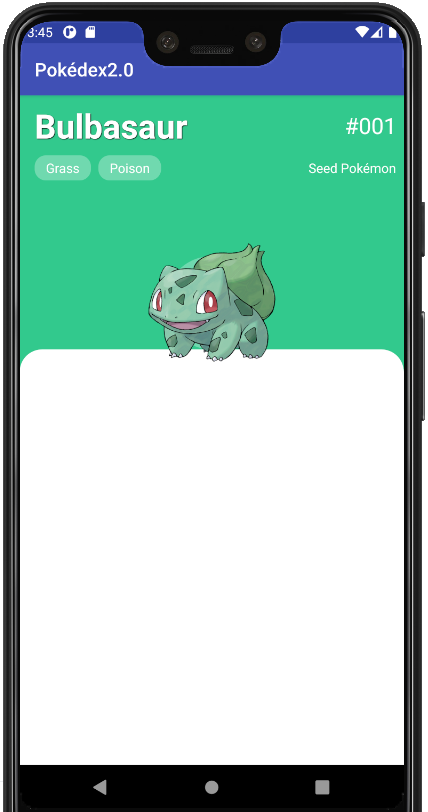
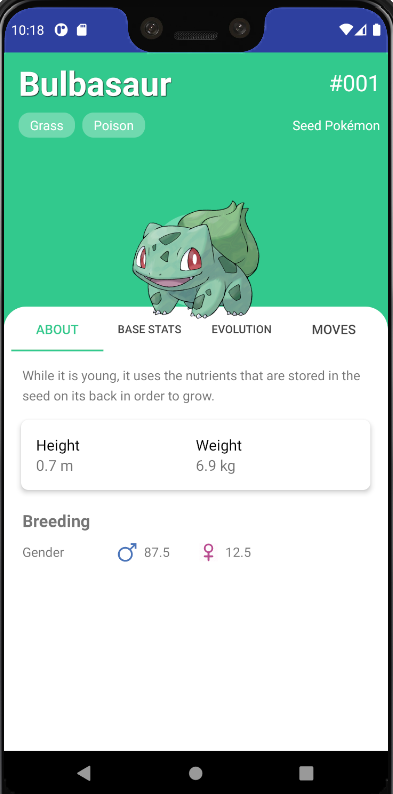
Updated README

diff --git a/README.MD b/README.MD
@@ -9,5 +9,6 @@ I've implemented 3 filters for now - Generation, type and name
 ![Gen Filter](https://github.com/FabZanna/FabulousPokedex/blob/master/app/files/gen_filter_snippet.png "Gen Filter") ![Type Filter](https://github.com/FabZanna/FabulousPokedex/blob/master/app/files/type_filter_snippet.png "Type Filter")
 
 ## Pokemon Page
-I'm currently working on implementing the page relative to a single pokemon. The pokeball spins continuously btw.
-![Pokemon Details](https://github.com/FabZanna/FabulousPokedex/blob/master/app/files/pokemon_details.png "Pokemon Details")
+Everything major is practically complete. I'm just working on polishing the app
+![Pokemon Details](https://github.com/FabZanna/FabulousPokedex/blob/master/app/files/pokemon_details.png "Pokemon Details") ![Pokemon Base Stats](https://github.com/FabZanna/FabulousPokedex/blob/master/app/files/pokemon_details_base stats.png "Pokemon Base Stats")
+![Pokemon Evolutions](https://github.com/FabZanna/FabulousPokedex/blob/master/app/files/pokemon_details_evolutions.png "Pokemon Evolutions") ![Pokemon Moves](https://github.com/FabZanna/FabulousPokedex/blob/master/app/files/pokemon_details_moves.png "Pokemon Moves")
